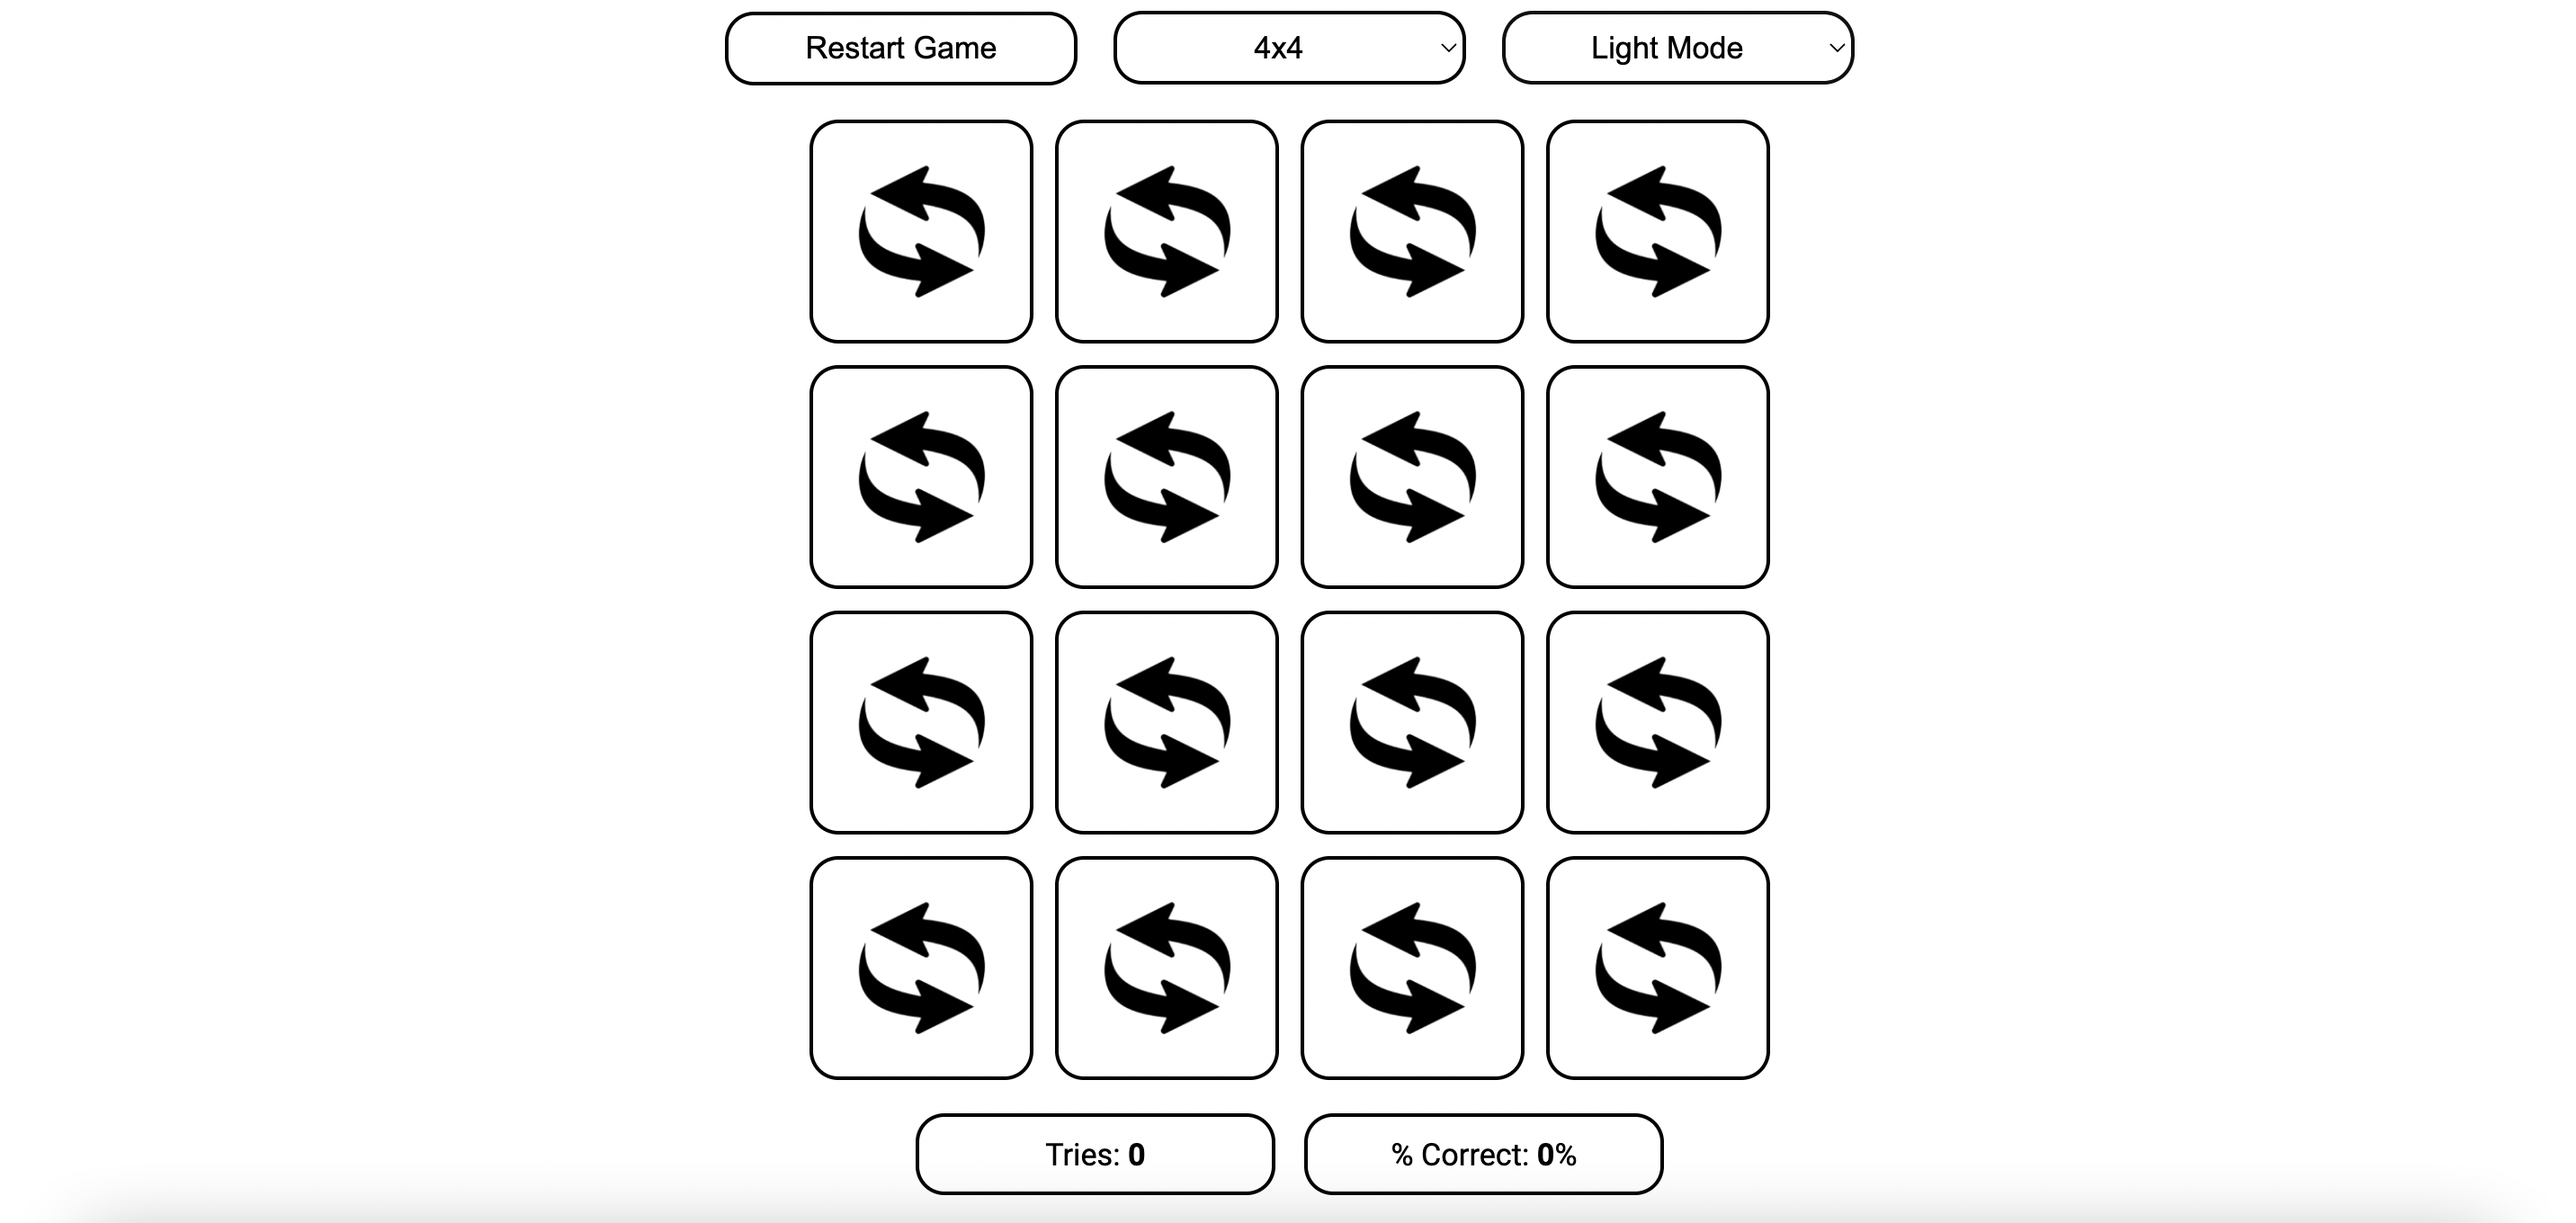
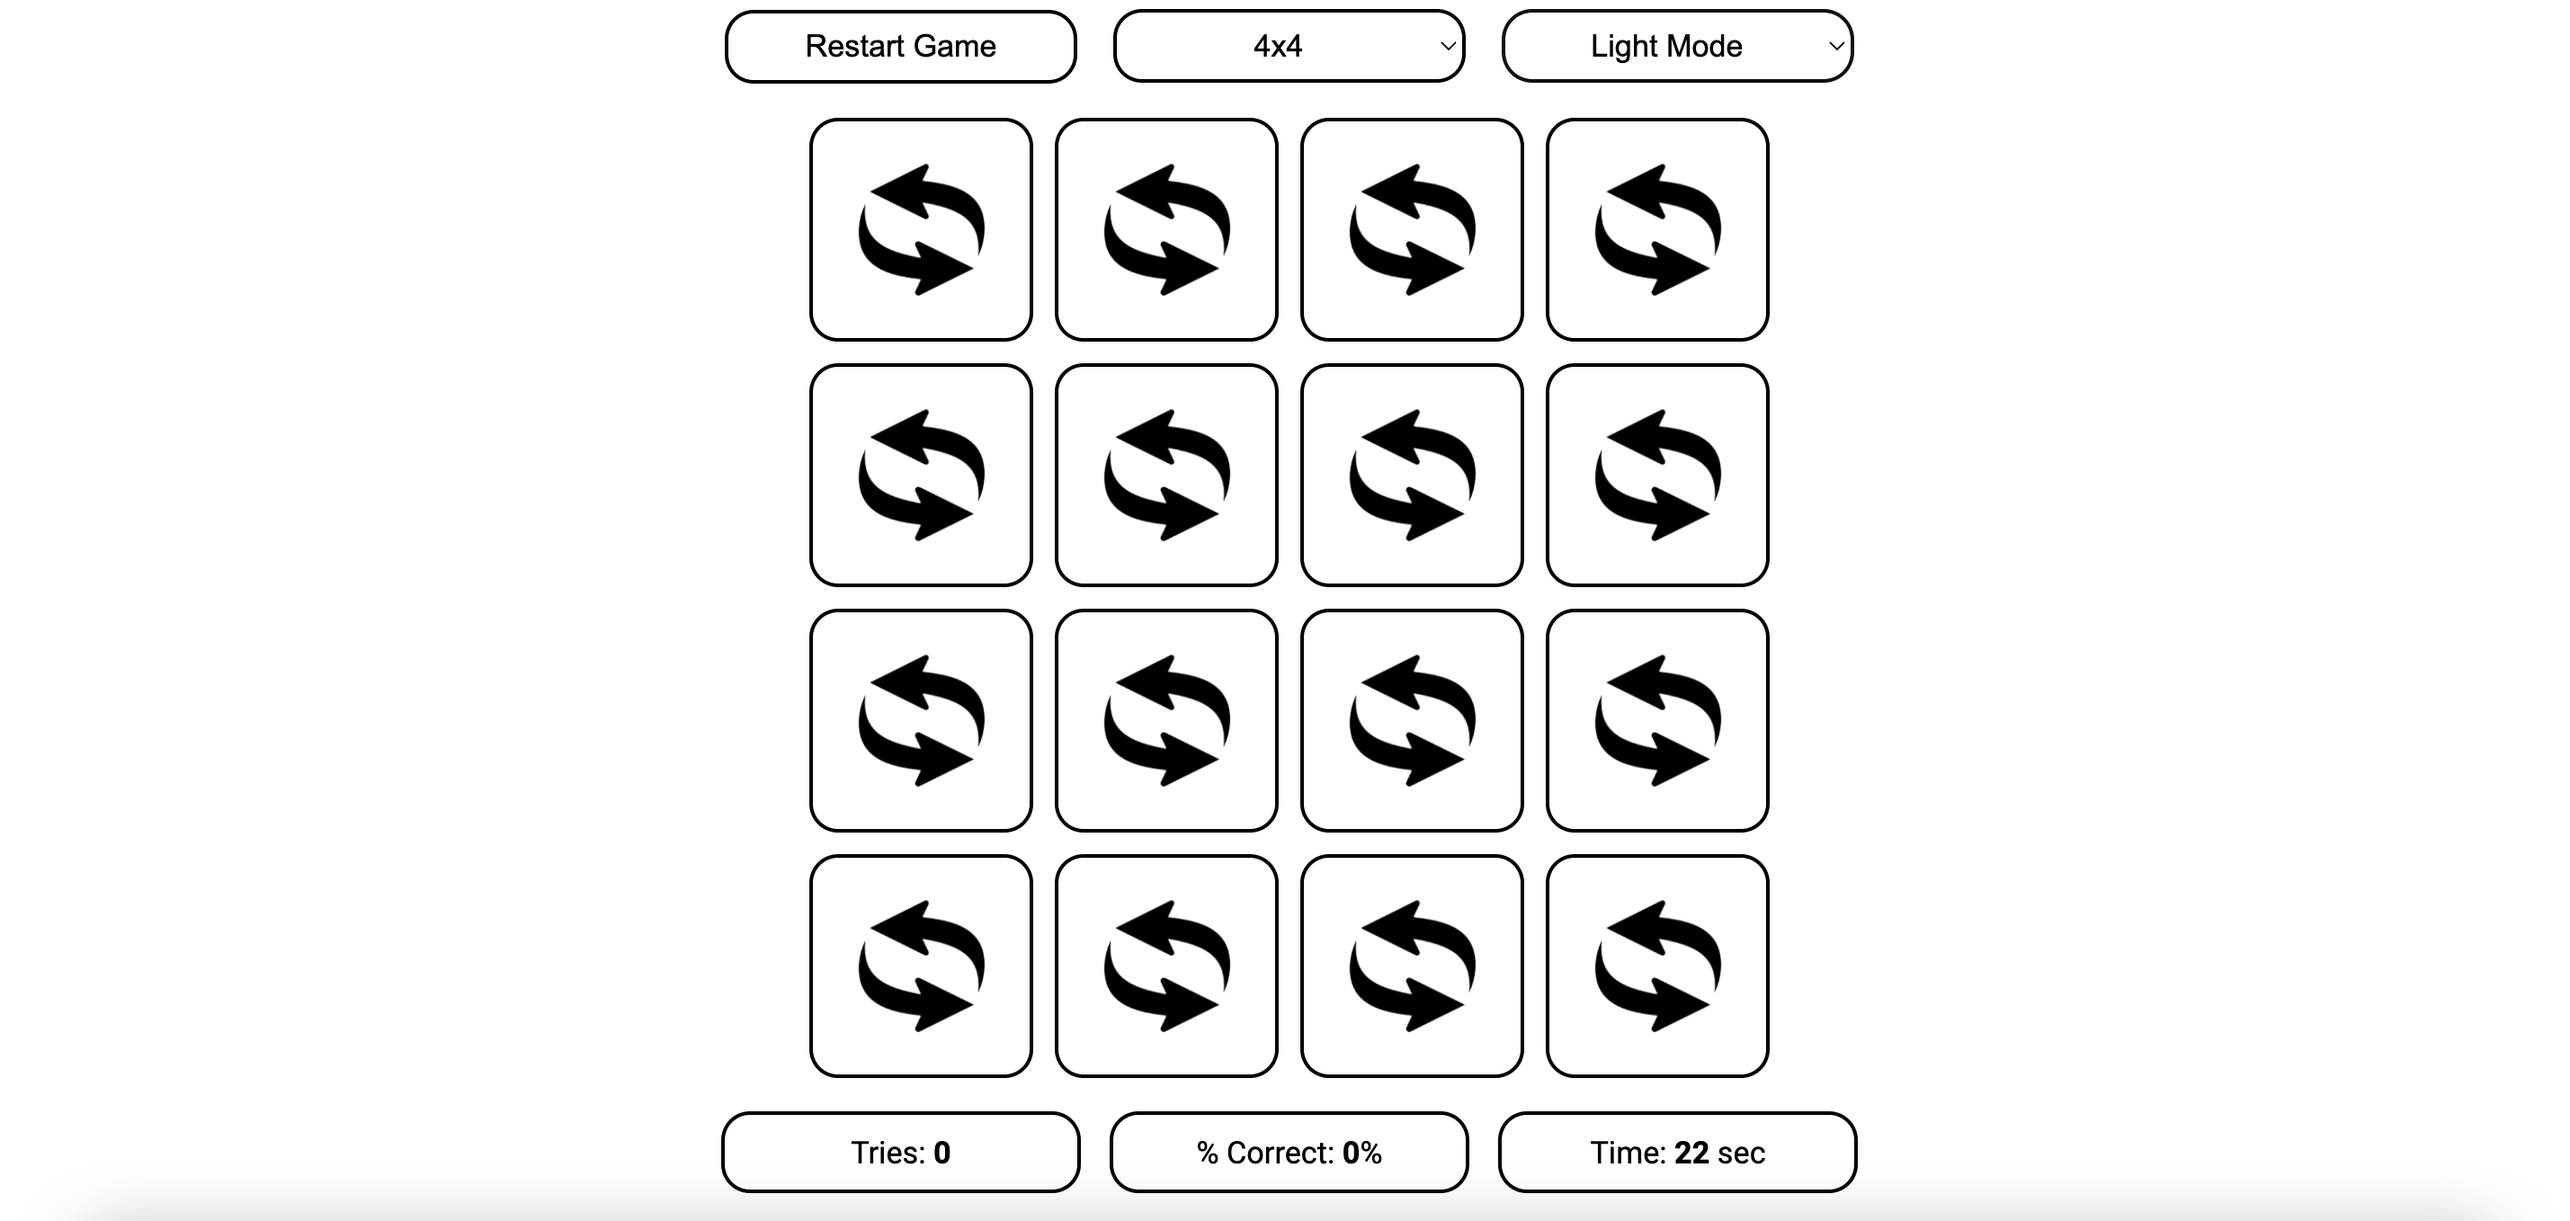
updated README.md

diff --git a/README.md b/README.md
@@ -2,7 +2,7 @@
 Memory Flip is a card matching game meant to test your memory & recall skills!  
 You will be presented with a grid of cards (default 4x4), which you can flip over.  
 Once you flip over two cards, they will be highlighted in <span style="color: green">green</span> or <span style="color: red">red</span> based on whether they match.  
-There are also counters on the bottom of the page tracking your **tries** and **% correct**.  
+There are also counters on the bottom of the page tracking your **tries**, **% correct**, and **time spent**.  
 You can switch between **2x2**, **4x4**, **6x6**, **8x8**, and **10x10** at the top of the page.  
 You can also switch between dark and light modes. Scroll down to see how each theme looks.  
 **Every setting is saved to local storage and reloaded when the website is refreshed.**
@@ -16,3 +16,6 @@ You can also switch between dark and light modes. Scroll down to see how each th
 
 # Light Mode
 <img src="README_resources/lightmode.png">
+
+# Completed Match Game
+<img src="README_resources/completed.png">
